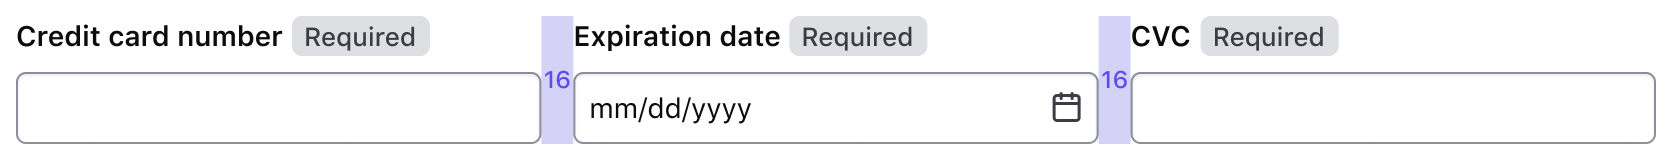
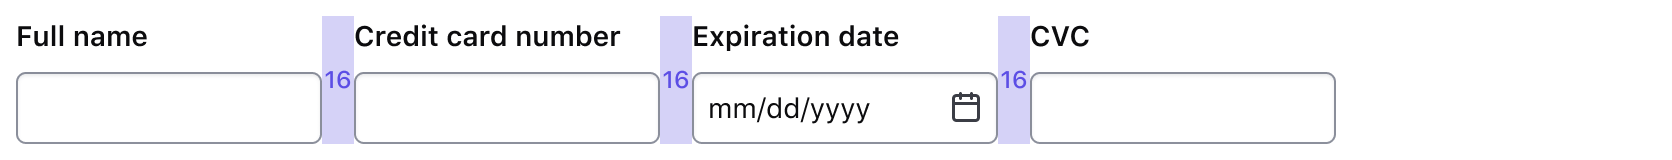
Updates to images and Form Patterns page

diff --git a/website/docs/patterns/form-patterns/partials/guidelines/guidelines.md b/website/docs/patterns/form-patterns/partials/guidelines/guidelines.md
@@ -1,18 +1,14 @@
 ## Spacing
 
-Spacing between sections, fields, text, and other form elements should follow a decreasing scale on an 8px grid. This creates a consistent vertical rhythm between elements and reinforces a natural hierarchy and association between elements.
+Spacing between sections, fields, text, and other form elements should follow a decreasing scale on an 8px grid. This creates a consistent visual hierarchy between elements.
 
 ### Form
 
-A **form** acts as a layout mechanism by wrapping the content, fields, and actions to apply consistent spacing while simultaneously handling the logic for submitting information and data collected by the fields.
-
-As a layout mechanism, a form consisting of more than one section should use a 32px gap in between sections.
-
-![Form container](/assets/patterns/form-patterns/form-container.png =450x*)
+A **form component** acts as a layout mechanism by wrapping the content, fields, and actions into sections with consistent spacing while simultaneously handling the logic for submitting information and data collected by the fields.
 
 ### Sections
 
-A **section** occupies the largest hierarchy within the form. Sections organize text, fields (inputs, checkboxes, toggles, etc.), and actions into logical sets. There should be a 32px vertical gap between each section within the form container.
+A **section** occupies the largest hierarchy within the form. Sections organize text, fields (inputs, checkboxes, toggles, etc.), and actions into logical groups. A form consisting of more than one section should use a 32px gap between sections.
 
 ![Example of multiple sections in a form](/assets/patterns/form-patterns/form-sections.png =450x*)
 
@@ -43,41 +39,27 @@ Fields can be further divided into two types: **text fields** and **data fields*
 | [Toggle](/components/form/toggle) | Lorem ipsum | Lorem ipsum |
 -->
 
-### Sets
+### Field group
 
-Fields may be organized in a **set** either horizontally or vertically if they are collecting related information or information that is part of the same object. Within a set there should bea 16px gap either horizontally (creating multiple columns), or vertically between each field.
+If fields are collecting related information or information that is part of the same object, they may be organized in a field group. Within a field group there should be a 16px gap either horizontally, or vertically between each field.
 
 ![Example of fields organized in a set](/assets/patterns/form-patterns/field-set.png =450x*)
 
-!!! Dont
+Common sets of field groups can include:
 
-Don't horizontally organize field types in a set that are related but not of the same type, e.g., a text input and a toggle.
-
-![Organizing different field types](/assets/patterns/form-patterns/different-field-type.png)
-!!!
-
-!!! Do
-
-Do stack fields of different types vertically.
-
-![Organizing different field types](/assets/patterns/form-patterns/different-field-type-do.png =500x*)
-!!!
-
-Common sets of fields can include:
-
-- Credit card information: card number, expiration data, security code
+- Credit card information: card number, expiration date, security code
 - Multi-line address field
 - First and last name
 
 #### Alignment
 
-Fields organized in a horizontal set should be aligned to the baseline of each element to account for fields with helper text.
+Fields organized in a horizontal field group should be aligned to the baseline of each element to account for fields with helper text.
 
 ![Baseline alignment within a set](/assets/patterns/form-patterns/baseline-alignment.png =500x*)
 
-### Button sets
+### Button Sets
 
-Organize buttons based on the [Button Set](/components/button-set) guidelines, e.g., using a 16px horizontal gap between buttons. More specifications and examples can be found in the documentation for [button organization](/patterns/button-organization).
+Organize buttons based on the [Button Set](/components/button-set) guidelines, e.g., using a 16px horizontal gap between buttons. For more specifications and examples, refer to the documentation for [button organization](/patterns/button-organization).
 
 ![Button set](/assets/patterns/form-patterns/button-set.png =500x*)
 
@@ -85,23 +67,17 @@ Organize buttons based on the [Button Set](/components/button-set) guidelines, e
 
 ### Single-column
 
-We recommend _most_ forms use a single-column layout as it makes the information easier to parse and reinforces the sequential nature of filling out a form.
+We recommend using a single-column layout for forms to streamline data entry. Since a relative width will adjust based on the viewport and container width, we recommend using a maximum and minimum width to ensure a smooth transition at any size.
 
-If a form uses a single-column layout, consider setting a maximum width on the form; this can be achieved by using a size or unit **relative** to the page, viewport, or container size, e.g., viewport width unit (`vw`), percentage width (`50%`), or a character unit (`ch`).
-
-
-!!! Info
-
-The web is a fluid medium. A relative width will adjust based on the viewport and container width. Designing and building a form with a maximum and minimum width will ensure a graceful expansion and contraction within the viewport.
-!!!
+Forms across our products should use a maximum width; this can be achieved by using the Form Layout component or by using a size or unit relative to the page, viewport, or container size, e.g., viewport width unit (`vw`), percentage width (`50%`), or a character unit (`ch`).
 
 ### Multi-column
 
-Horizontal sets of form elements creates a multi-column layout within the form.
+Field groups create the appearance of a multi-column layout within the form.
 
 !!! Do
 
-Use a consistent number of columns through the form.
+Use a consistent number of columns throughout the form.
 
 ![Consistent number of columns](/assets/patterns/form-patterns/multi-column-consistent-columns.png =500x*)
 !!!
@@ -115,35 +91,42 @@ Don't organize a set of fields in two columns and another set in three columns.
 
 !!! Dont
 
-Don't exceed more than three fields in a horizontal set. In most scenarios it's best to limit the number of columns in a form or section to two.
+Don't exceed more than three fields in a horizontal set. In most scenarios, it's best to limit the number of columns in a form or section to two.
 
 ![Three field maximum in a set](/assets/patterns/form-patterns/multi-column-three-fields-max.png =500x*)
 !!!
 
 !!! Do
 
-Stack fields vertically when the width of the viewport and form container shrinks.
+If using multiple inputs in a row, stack fields vertically at the `md` breakpoint. This behavior is automatically applied in the Form Layout.
 
 ![Stack fields](/assets/patterns/form-patterns/multi-column-stacking.png =350x*)
 !!!
 
-The width of the overall form can impact multi-column layouts. Use set organization logically based on the layout, width of the page, and overall UX strategy in the application.
-
 Refer to the [button organization stacking guidelines](/patterns/button-organization#stacking-order) when determining how buttons should stack as the viewport condenses.
 
-## Text
+## Width
+
+The width of a form and the fields it contains are largely dependent on the form’s context. Adhering to these high-level guidelines can make a complex form approachable and introduce consistency in the UX application.
+
+### Field width
+Generally, a field’s width should account for the estimated width of the content it accepts. This gives the user an accurate sense of the character length and type of content the field accepts, which is important in setting user expectations.
+
+### Responsive properties
+As the viewport shrinks, the form should expand relative to the viewport width, eventually occupying the entire width of the content area. Horizontal field groups should stack vertically as the viewport shrinks.
+
+## Form headers
 
 In sections consisting of multiple blocks of text, use an 8px vertical gap between elements.
 
 ![Example of a text section](/assets/patterns/form-patterns/text-section.png =600x*)
 
-Text elements within a form should use logical, step-based sizing to reinforce hierarchy within sections and the form itself. While specifics around type hierarchy should be determined at the application level, adhering to these guidelines will help establish consistency at the page level and when constrained within another element or component.
+Text elements within a form should use logical sizing to reinforce hierarchy within sections and the form itself. While specifics regarding type hierarchy should be determined at the application level, the Form Layout component establishes a default heading style for form-level and section-level text as a starting point.
 
-## Order and organization
-
-Fields within a form generally fall into three need-based categories that can determine order and organization within a form: **technical and application needs**, **user needs**, and **business needs**. These categories don't exist in isolation but have a cumulative effect on how a user perceives a form and how likely they are to complete it.
+## Form organization
 
 ### Need-based organization
+Fields within a form generally fall into three need-based categories that can determine the order and organization of within a form: **technical and application needs**, **user needs**, and **business needs**.
 
 #### Technical and application needs
 
@@ -178,13 +161,11 @@ Once a logical organization has been established,
 
 - categorize elements and fields into sections,
 - introduce typographic elements to establish hierarchy,
-- and, if necessary, [use dividers](#using-dividers) to differentiate sections clearly.
+- and, if necessary, [use separators](#using-dividers) to differentiate sections clearly.
 
 Each one of these methods will help the user better parse and understand the relationships between each section and the fields contained within.
 
-## Sizing
-
-### Length
+## Form complexity
 
 Since longer forms can result in a lower completion rate, we recommend looking for ways to reduce the overall number of fields whenever possible.
 
@@ -197,24 +178,24 @@ If a field is optional, consider whether it’s actually needed in the form. If 
 
 Using sections based on the relationship between fields can make a longer form seem less complex. Introducing typographic elements and dividers can further aid the hierarchy of the form and differentiate sections from one another.
 
-##### Using dividers
+##### Using separators
 
-Dividers introduce more visual hierarchy and differentiation in longer, complex forms.
+[Separators](components/separator) introduce more visual hierarchy and differentiation in longer, complex forms.
 
-Use dividers to break up different types of content and categories within a form. Only use dividers between sections, not between fields.
+Use separators to break up different types of content and categories within a form. Only use separators between sections, not between fields.
 
 !!! Do
 
-Include a 24px gap above and below to separate the divider from the surrounding form elements; otherwise, it can appear "attached" to a specific section or field.
+Include a 32px gap between the last field and the button set or actions.
 
-![Spacing using dividers](/assets/patterns/form-patterns/divider-spacing-do.png =500x*)
+![Spacing using separators](/assets/patterns/form-patterns/divider-spacing-do.png =500x*)
 !!!
 
 !!! Dont
 
-Don’t use dividers at the end of the last section between the fields and the button set or actions.
+Don’t use separators at the end of the last section between the fields and the button set or actions.
 
-![Spacing using dividers](/assets/patterns/form-patterns/divider-spacing-dont.png =500x*)
+![Spacing using separators](/assets/patterns/form-patterns/divider-spacing-dont.png =500x*)
 !!!
 
 !!! Do
@@ -228,21 +209,9 @@ Instead, use the section spacing value of 32px.
 
 Consider breaking the form into multiple steps or pages for exceedingly long and complex forms (e.g., creating a cluster). For multi-step forms, use a [Stepper](/components/stepper) to indicate status and the user’s location within the form.
 
-### Width
-
-The width of a form and the fields it contains are largely dependent on the context the form is in, but adhering to these high-level guidelines can make a complex form approachable and introduce consistency in the UX.
-
-#### Field width
-
-Generally, the width of a field should be wide enough to account for the estimated width of the content it accepts. This gives the user an accurate sense of the character length and type of content the field accepts and is important in setting user expectations.
-
-#### Responsive properties
-
-As the viewport shrinks, the form width should expand relative to the viewport width, eventually occupying the entire width of the viewport or page. Horizontal sets of fields that result in a multi-column layout should stack vertically as the viewport shrinks.
-
 ## Required and optional
 
-For complex forms, indicate **required** fields. This is the most explicit and transparent method and ensures users don't have to make assumptions.
+For complex forms, indicate **required** fields. This is the most explicit and transparent method for indicating input needs to users.
 
 For shorter, simpler forms, indicate **optional** fields instead.
 
@@ -250,7 +219,7 @@ Don't mix required and optional labels, stick to one or the other. Using one met
 
 ## Copying an input value
 
-If a user needs to copy the value within an input, consider pairing a [CopyButton](/components/copy/button) with the input control. This can reduce the manual friction of copying a value to a single targeted action.
+If a user needs to copy the value within an input, consider pairing it with a [CopyButton](/components/copy/button) with the input control. This can reduce the friction of manually copying a value to a single targeted action.
 
 ![CopyButton paired with an input control](/assets/components/copy/copy-button-composition-single-line-input-simple.png)
 

diff --git a/website/docs/components/form/layout/partials/guidelines/guidelines.md b/website/docs/components/form/layout/partials/guidelines/guidelines.md
@@ -16,6 +16,8 @@ Form layout components in Ember and their related Layout “Template” componen
 
 The Form component ensures a consistent and streamlined user experience. We recommend using a single-column layout for forms, as multi-column layouts can disrupt the visual flow and reading order. Multi-column layouts can potentially result in missed inputs requiring resolution and thereby increasing friction. They should only be used when grouping related inputs improves the user experience.
 
+![The anatomy of the Form layout, indicating the header, sections, separator, and actions](/assets/components/form/layout/form-anatomy.png)
+
 ### Spacing
 
 Spacing in forms is based on a decreasing scale on an 8px grid. From largest to smallest, the spacing structure is:
@@ -44,7 +46,7 @@ Place inputs in rows to save space or create columns within the form.
 
 !!!
 
-Visit the (Form Patterns](/patterns/form-patterns) guidelines for additional details on spacing in forms.
+Visit the [Form Patterns][/patterns/form-patterns] guidelines for additional details on spacing in forms.
 
 ## Form Header
 
@@ -98,21 +100,13 @@ A 32px gap is included above and below to divide the Separators and to avoid the
 
 Don’t use Separators at the end of the last section between the fields and the button set or actions.
 
-![ALT TEXT](/assets/components/form/layout/?.png)
-
-!!!
-
-!!! Do
-
-Instead, use the section spacing value of 32px between the last field and the button set or actions.
-
-![ALT TEXT](/assets/components/form/layout/?.png)
+![Separator being uses after all the content in a form](/assets/components/form/layout/divider-spacing-dont.png)
 
 !!!
 
 ## Button Set
 
-Buttons are necessary for communicating how the form details can be saved or submitted. We recommend using a Button Set [/patterns/form-patterns#button-sets] so the user can Save/Submit or Cancel the form.
+Buttons are necessary for communicating how the form details can be saved or submitted. We recommend using a [Button Set](/patterns/form-patterns#button-sets) so the user can Save/Submit or Cancel the form.
 
 ## Width and resizing behavior
 

diff --git a/website/docs/components/form/layout/index.md b/website/docs/components/form/layout/index.md
@@ -1,7 +1,7 @@
 ---
 title: Layout
-description: {Optional long description that appears in the cover}
-caption: {Short description that appears in the cards}
+description: The Form layout components are used as structural components to organize and space the structure and spacing between elements in forms.
+caption: The Form layout components are used as structural components to organize and space the structure and spacing between elements in forms.
 links:
   figma: >-
     https://www.figma.com/design/iweq3r2Pi8xiJfD9e6lOhF/branch/azcdumnXvCyGfSVfEVZhGH/HDS-Components-v2.0?node-id=83107-2070&p=f&t=CeumEO6vBV6h0IuD-0
@@ -9,7 +9,7 @@ links:
     https://github.com/hashicorp/design-system/tree/main/packages/components/src/components/hds/form
 related:
   - patterns/form-patterns
-previewImage: assets/illustrations/components/form-layout.jpg
+previewImage: /assets/components/form/layout/form.jpg
 navigation:
   order: 98
   keywords: ['add', 'alternate', 'keywords', 'here']

diff --git a/website/docs/patterns/form-patterns/partials/guidelines/overview.md b/website/docs/patterns/form-patterns/partials/guidelines/overview.md
@@ -1,6 +1,1 @@
-A form is a container housing various inputs and controls that display and collect data. These guidelines identify common patterns for designing and assembling a consistent, user-centric form.
-
-!!! Info
-
-These guidelines are meant to help and inform teams _how_ to design and build forms. There are currently no Ember or Figma components to support these patterns.
-!!!
+A form is a container that houses various inputs and controls, displaying and collecting data. These guidelines outline best practices for form design in HashiCorp products. Our [Form Layout component][/components/form/layout] makes implementing these practices simple and consistent across our products.

diff --git a/website/docs/patterns/form-patterns/index.md b/website/docs/patterns/form-patterns/index.md
@@ -1,7 +1,7 @@
 ---
 title: Form patterns
-description: Guidelines for delivering user-centric forms comprised of Helios form components and primitives.
-caption: Guidelines for delivering user-centric forms comprised of Helios form components and primitives.
+description: Guidelines for delivering user-centric forms using Helios form components and primitives.
+caption: Guidelines for delivering user-centric forms using Helios form components and primitives.
 related: ['components/form/primitives']
 previewImage: assets/illustrations/patterns/form-patterns.jpg
 navigation:

diff --git a/website/docs/components/form/layout/partials/guidelines/overview.md b/website/docs/components/form/layout/partials/guidelines/overview.md
@@ -1,1 +1,1 @@
-{description}
+The Form layout components are used as structural components to organize and space the structure and spacing between elements in forms. 
